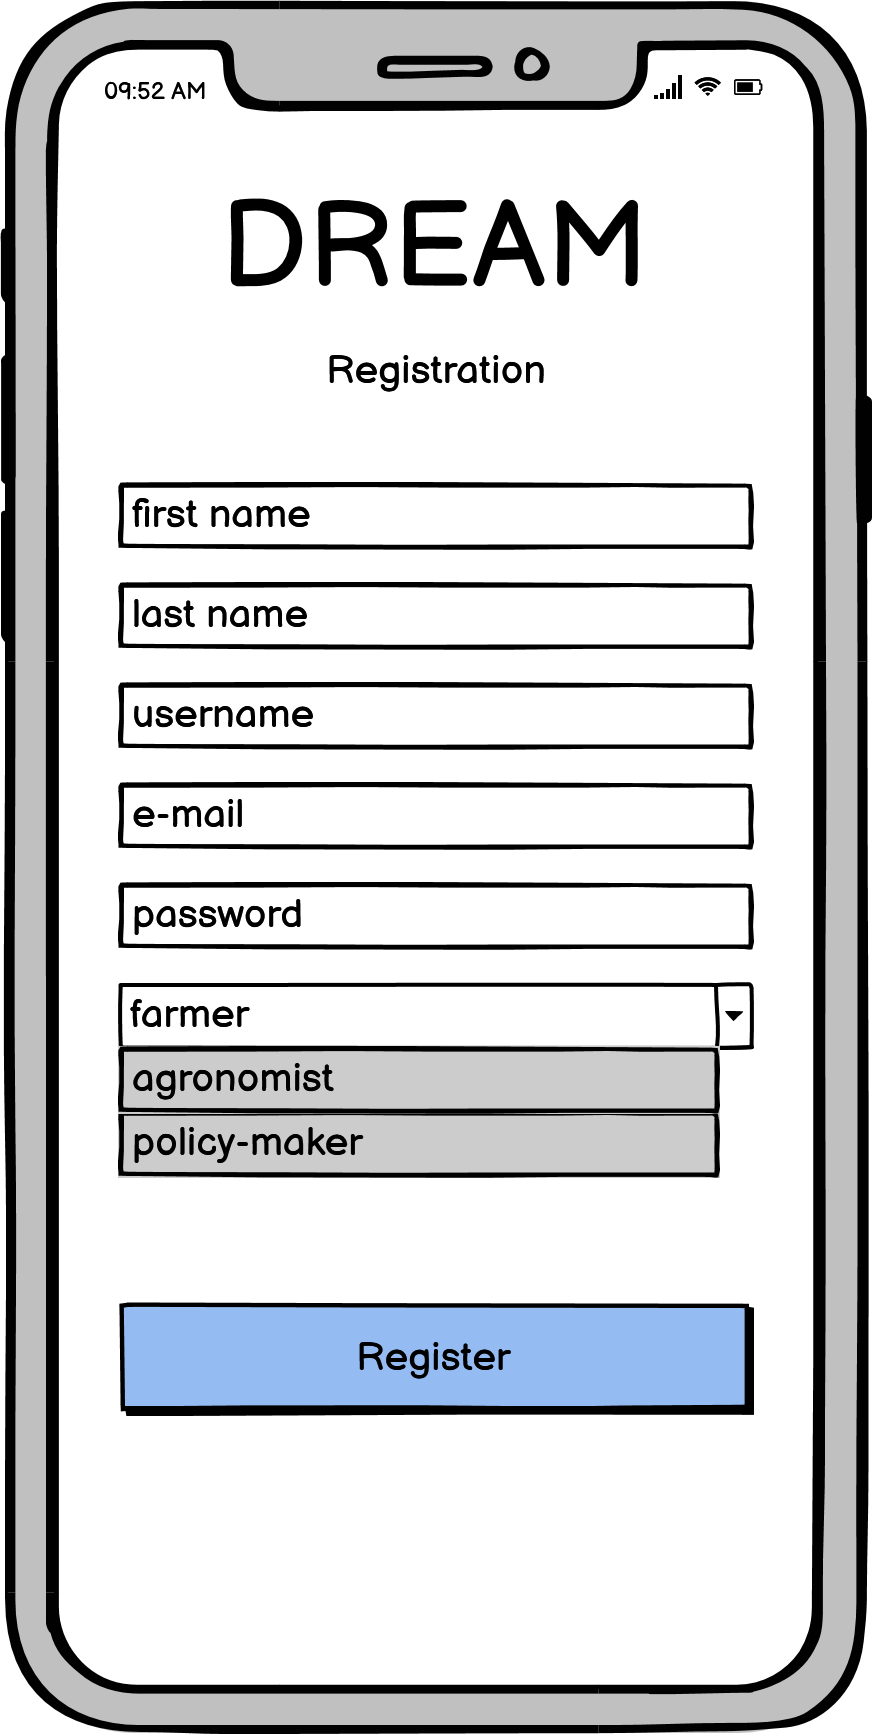
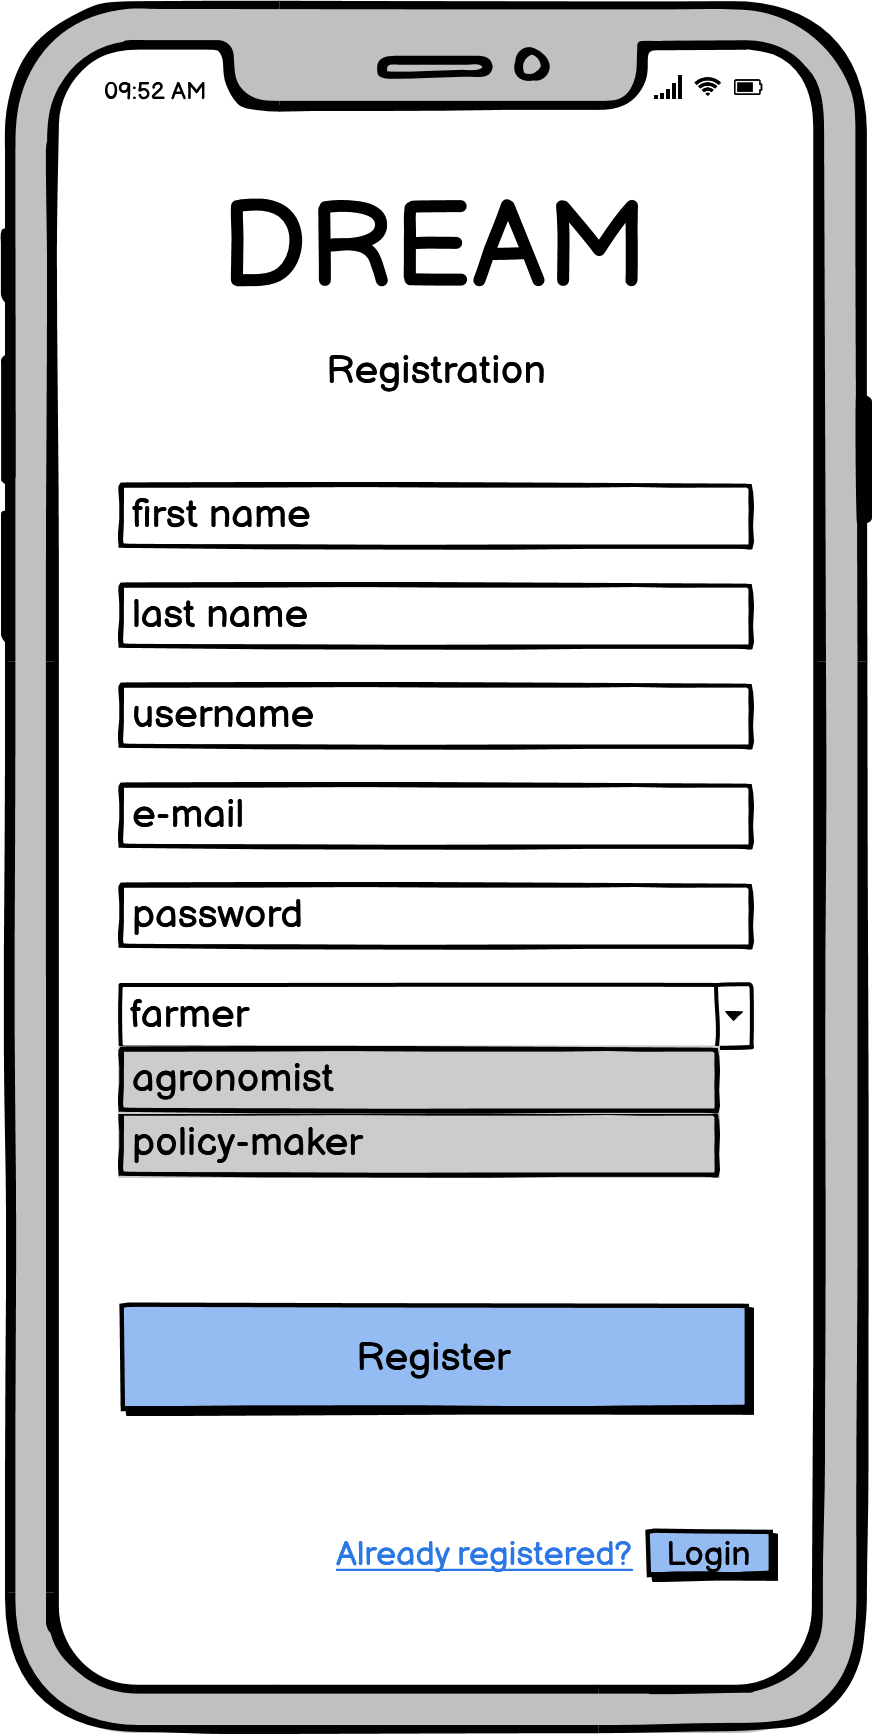
Users interfaces

Changed region(s): [[0.3716, 0.872, 0.8979, 0.9343]]

diff --git a/RASD/Files/requirements.tex b/RASD/Files/requirements.tex
@@ -1,4 +1,56 @@
 \subsection{External interface Requirements}
+The \emph{DREAM} frontend is a web application that can be accessed from web browsers, both from mobile and
+desktop devices. The following section will give a comprehensive description in terms of hardware, software
+and communication interfaces.
+
+\subsubsection{Common users interfaces}
+\textbf{Login and Registration}\\
+When first opening the application, all the users are presented with the login page. If not already registered,
+it is provided a registration button. In this section they are asked to provide: first name, second name,
+a \emph{username}, an \emph{e-mail address} and a \emph{password}. The interface also shows a small button to switch
+to the login page, in case the user has already signed in on another device or the session has expired.
+
+\begin{figure}[H]
+    \centering
+    \includegraphics[scale=0.40]{Images/registration.png}
+    \caption{Registration interface}
+\end{figure}
+\pagebreak
+
+\begin{figure}[H]
+    \centering
+    \includegraphics[scale=0.40]{Images/log-in.png}
+    \caption{Log-in interface}
+\end{figure}
+
+\textbf{Farmer's home page} \\
+Provides different options. The user can insert data concerning production,
+checks weather forecasts, privately request help, and reach the forum.
+\begin{figure}[H]
+    \centering
+    \includegraphics[scale=0.45]{Images/farmerHomePage.png}
+    \caption{Farmer's home page}
+\end{figure}
+
+\textbf{Agronomist's home page} \\
+Provides the possibility of selecting the area of responsibility, answering private help requests,
+checking the weather, accessing the forum, managing the daily plan, and checking the dashboard
+\begin{figure}[H]
+    \centering
+    \includegraphics[scale=0.40]{Images/agronomistHomePage.png}
+    \caption{Agronomist's home page}
+\end{figure}
+
+\textbf{Policymaker's home page} \\
+Provides a table containing values for all farmers in the system. Every field of this table can be ordered.
+\newline There are also graphs that sum up data about production.
+\begin{figure}[H]
+    \centering
+    \includegraphics[scale=0.40]{Images/policymakerHomePage.png}
+    \caption{Policymaker's home page}
+\end{figure}
+
+
 \subsection{Functional Requirements}
 \subsubsection{Goal-Requirement mapping}
 \begin{description}
@@ -76,6 +128,7 @@
     \end{description}
 \end{description}
 
+\bigskip
 \subsubsection{Scenarios}
 \paragraph{Scenario 1} Daily plan confirmation\\
 Tom is an agronomist that has just finished his work shift, so he logs in to the app and clicks on the daily plan icon.
